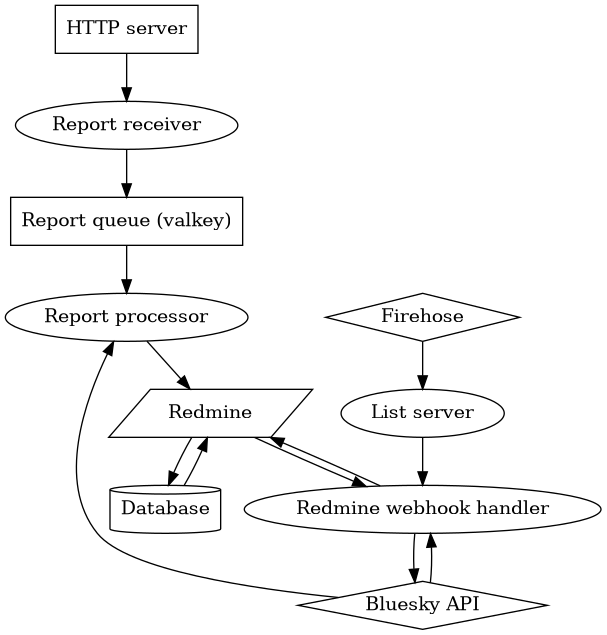
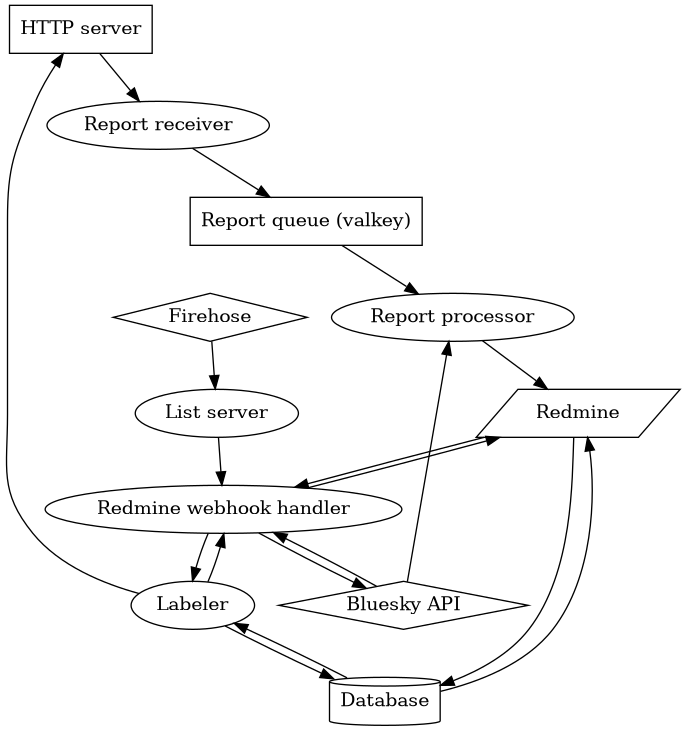
doc: update readme

diff --git a/README.md b/README.md
@@ -19,10 +19,10 @@ Moderation stack for Bluesky, based on [Redmine](https://www.redmine.org/).
 * Stores snapshots of the reported content and profiles
 * Moderators can also use in-app reports to add additional content to a ticket
 * Supports multiple report queues for redundancy
+* Emitting labels for individual records
 
 ### Planned future features
 
-* Emitting labels for accounts and individual records
 * Migration from Ozone
 
 ## Getting started
@@ -72,6 +72,31 @@ this purpose. To enable it:
 
 1. Copy `files/pomerium.example.yaml` to `config/pomerium.yaml` and edit it.
 2. Uncomment `COMPOSE_PROFILES="prod"` in `.env` file.
+
+## Changing operating mode
+
+By default your instance functions in account-level mode. This means that:
+
+* There's one ticket per subject account
+* All reports of individual posts are added to the ticket about their author
+* There's no way to emit labels for individual posts
+
+In order to support labeling, there's a different operating mode:
+
+* There's one ticket per subject account and one for each reported post
+* Reports of individual posts are added to a ticket specifically about that post
+* Per-post tickets are marked as "related" to the ticket about their author, so that links to them show up in the UI
+
+To change to this mode:
+
+1. Update your `config/config.yaml` setting `enablePerRecordTickets` to `true` and adding `labelerPolicies` (it has the same layour at 'policies' field in 'app.bsky.labeler.service' record).
+2. If your labeler account is not set up yet:
+
+    1. Run `go run ./cmd/account-setup --config=./config/config.yaml`
+    2. If it tells you that it needs a token from a confirmation email, get that token and re-run the command with `--token=` argument.
+
+2. Restart `labeler` and `redmine-handler`.
+3. Log into Redmine with `admin` account, go into project settings -> Issue Tracking, enable "Record ticket" tracker and press "Save".
 
 ## System diagram
 
